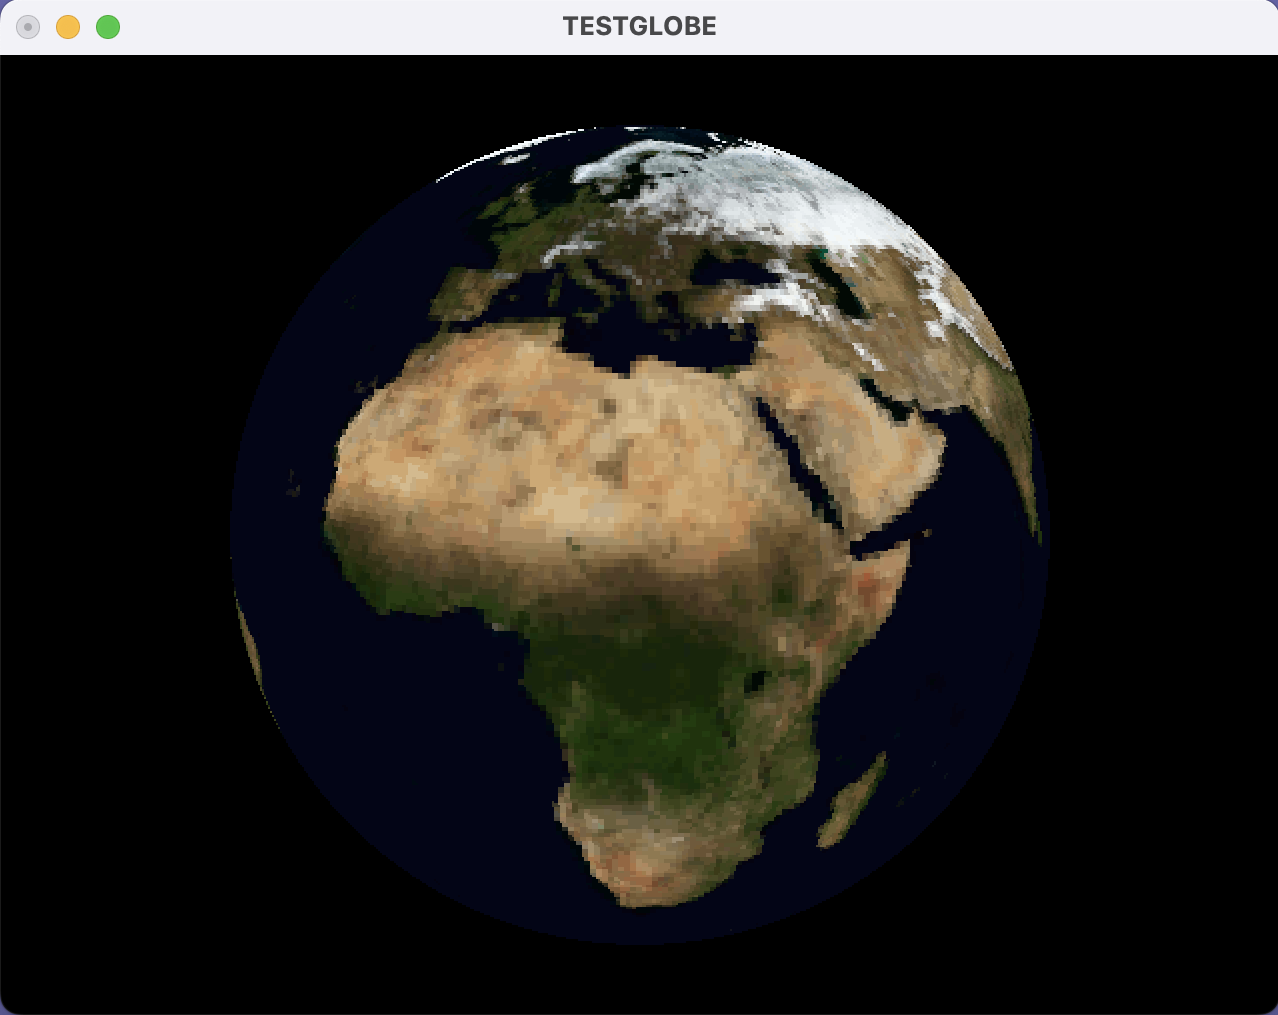
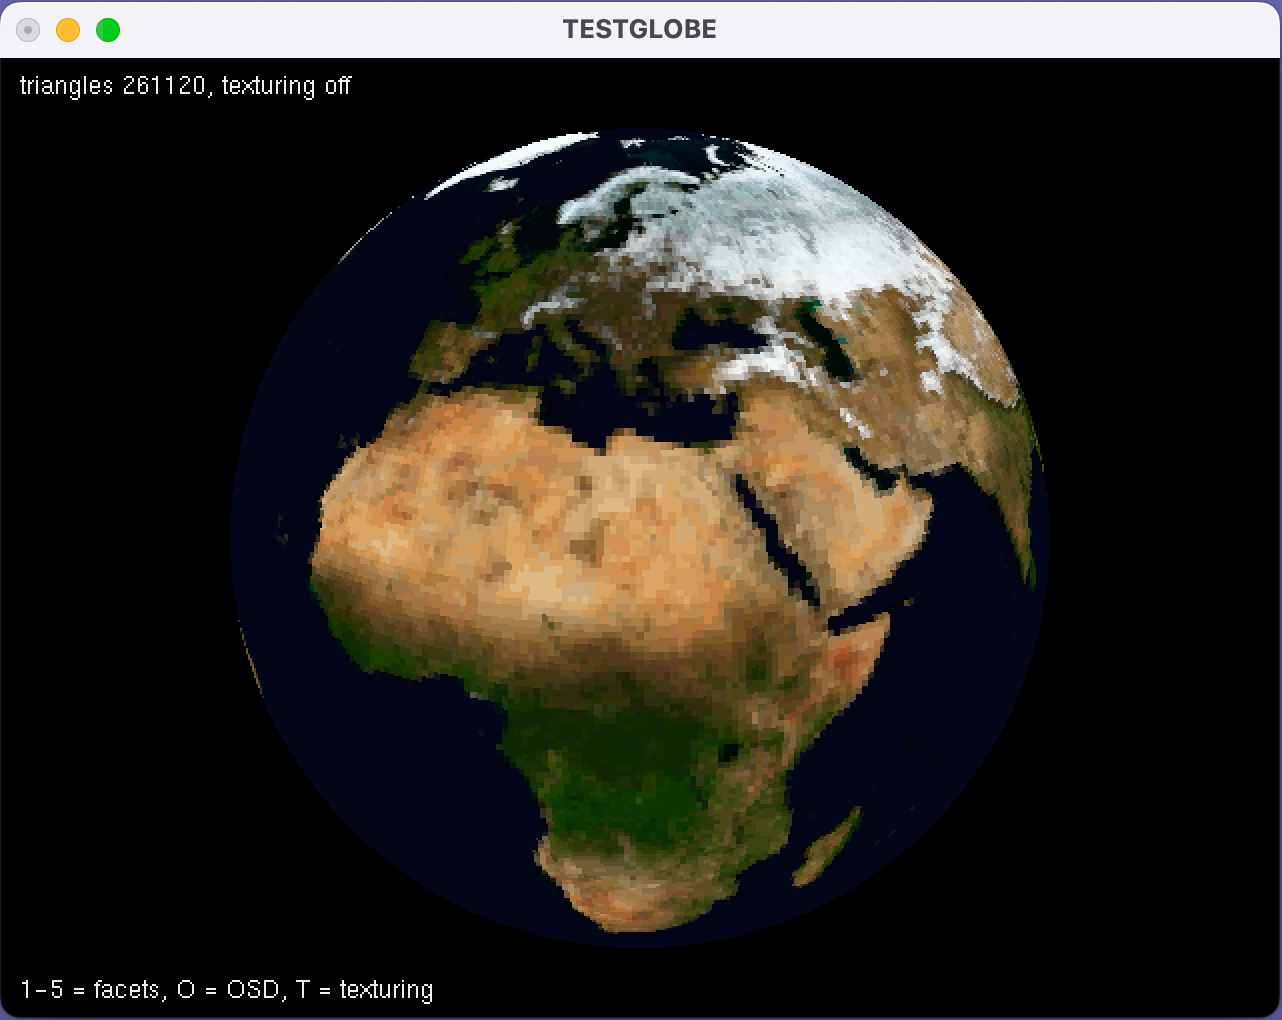
OSD with help

diff --git a/drv_ogl.c b/drv_ogl.c
@@ -30,6 +30,8 @@
 #include <GL/glut.h>
 #endif
 
+void *ogl_font;
+
 static int ogl_old_x;
 static int ogl_old_y;
 
@@ -74,6 +76,11 @@ void ogl_keyboard(unsigned char key, int x, int y)
                 glDeleteLists(dlist, 1);
                 dlist = 0;
             }
+            glutPostRedisplay();
+            break;
+        case 'O':
+        case 'o':
+            drv_osd_enabled = !drv_osd_enabled;
             glutPostRedisplay();
             break;
         default:
@@ -179,11 +186,23 @@ void ogl_checkerrors (void)
     fprintf(stderr, "OpenGL error: %s!\n", error_msg);
 }
 
+// draw a string with bitmap text
+void ogl_draw_string(char * str, int x, int y)
+{
+    glRasterPos2i(x, y);
+    int i;
+    for (i=0; *(str+i) != 0; str++)
+    {
+        glutBitmapCharacter(ogl_font, *(str+i));
+    }
+}
+
 // initialize graphics subsystem
 void drv_init(int *argc, char **argv)
 {
     glutInit(argc, argv);
     glutInitDisplayMode(GLUT_RGB | GLUT_DOUBLE);
+    ogl_font = GLUT_BITMAP_HELVETICA_12;
 }
 
 // render current scene
@@ -213,6 +232,19 @@ void drv_render(void)
         glCallList(dlist);
     }
 
+    if (drv_osd_enabled)
+    {
+        glMatrixMode(GL_MODELVIEW);
+        glPushMatrix();
+        glMatrixMode(GL_PROJECTION);
+        glPushMatrix();
+        drv_draw_osd();
+        glMatrixMode(GL_PROJECTION);
+        glPopMatrix();
+        glMatrixMode(GL_MODELVIEW);
+        glPopMatrix();
+    }
+    
     glutSwapBuffers();
     ogl_checkerrors();
 }
@@ -323,6 +355,22 @@ void drv_draw_tri_flat_uv(Vertex *xyz1, Vertex *xyz2, Vertex *xyz3, Coord *uv1, 
     glVertex3fv((GLfloat *)xyz2);
     glTexCoord2fv((GLfloat *)uv3);
     glVertex3fv((GLfloat *)xyz3);
+}
+
+void drv_draw_osd(void)
+{
+    char status_str[256];
+    
+    glMatrixMode(GL_PROJECTION);
+    glLoadIdentity();
+    gluOrtho2D(0, drv_win_width, 0, drv_win_height);
+    
+    glMatrixMode(GL_MODELVIEW);
+    glLoadIdentity();
+    
+    ogl_draw_string(drv_help, 10, 10);
+    snprintf(status_str, 255, "triangles %i, texturing %s", globe_tris_num, (drv_texture_enabled ? "on" : "off"));
+    ogl_draw_string(status_str, 10, drv_win_height - 18);
 }
 
 // cleanly close window

diff --git a/drv.c b/drv.c
@@ -34,6 +34,7 @@ int drv_colormapped;                    // bool is colormap window
 int drv_texture_avail;                  // is texturing available in the driver
 int drv_texture_loaded;                 // has texture been loaded
 int drv_texture_enabled;                // is texturing enabled
+int drv_osd_enabled;                    // is OSD enabled
 unsigned int drv_bits_per_pixel;        // bits depth
 unsigned int drv_colormap_bits;         // bits per color
 unsigned long int drv_colors;           // number of colors
@@ -44,6 +45,7 @@ float drv_rot_x;                            // rotation of globe on x axis
 float drv_rot_y;                            // rotation of globe on y axis
 int drv_lmouse_pressed;                 // mouse pressed
 int drv_rmouse_pressed;                 //
+char drv_help[256];                     // OSD help string to print
 
 
 // call first
@@ -59,6 +61,7 @@ void drv_ext_init(void)
     drv_colormapped = DRV_COLORMAPPED;
     drv_texture_avail = DRV_TEXTURE;
     drv_texture_enabled = DRV_TEXTURE_DEFAULT;
+    drv_osd_enabled = DRV_OSD_DEFAULT;
     drv_bits_per_pixel = DRV_DEPTH;
     drv_colormap_bits = DRV_COLORMAPDEPTH;
     drv_colors = (drv_bits_per_pixel == 32 ? 0xFFFFFFFF : 1<<drv_bits_per_pixel);
@@ -79,6 +82,7 @@ void drv_ext_init(void)
             break;
     }
     strcpy(drv_name, DRV_NAME);
+    strcpy(drv_help, DRV_HELP);
     drv_rot_x = 0;
     drv_rot_y = 0;
     drv_lmouse_pressed = FALSE;

diff --git a/drv_ext.h b/drv_ext.h
@@ -29,16 +29,19 @@ extern int drv_colormapped;
 extern int drv_texture_avail;
 extern int drv_texture_loaded;
 extern int drv_texture_enabled;
+extern int drv_osd_enabled;
 extern unsigned int drv_bits_per_pixel;
 extern unsigned int drv_bytes_per_pixel;
 extern unsigned int drv_colormap_bits;
 extern unsigned long int drv_colors;
 extern unsigned long int drv_colormap_colors;
 extern char drv_name[];
+extern char drv_help[];
 extern float drv_rot_x;
 extern float drv_rot_y;
 extern int drv_lmouse_pressed;
 extern int drv_rmouse_pressed;
+
 
 extern void drv_ext_init(void);
 extern void drv_init(int *argc, char **argv);
@@ -48,5 +51,6 @@ extern void drv_draw_tri_flat_uv(Vertex *xyz1, Vertex *xyz2, Vertex *xyz3, Coord
 extern void drv_loop(void);
 extern void drv_texture_enable(void);
 extern void drv_texture_disable(void);
+extern void drv_draw_osd(void);
 
 #endif /* drv_ext_h */

diff --git a/drv_ogl.h b/drv_ogl.h
@@ -24,6 +24,7 @@
 #endif
 
 #define DRV_NAME "OpenGL"
+#define DRV_HELP "1-5 = facets, O = OSD, T = texturing"
 #define GL_SILENCE_DEPRECATION
 
 #define DRV_WIN_X 100
@@ -33,6 +34,7 @@
 #define DRV_COLORMAPPED FALSE
 #define DRV_TEXTURE TRUE
 #define DRV_TEXTURE_DEFAULT FALSE
+#define DRV_OSD_DEFAULT TRUE
 #define DRV_DEPTH 24
 #define DRV_COLORMAPDEPTH 24
 #define Color Color_RGB

diff --git a/drv_xgl.h b/drv_xgl.h
@@ -24,6 +24,8 @@
 #endif
 
 #define DRV_NAME "XGL"
+#define DRV_HELP "1-5 = facets, O = OSD, T = texturing"
+
 #define DRV_WIN_X 100
 #define DRV_WIN_Y 100
 #define DRV_WIN_WIDTH 640
@@ -31,6 +33,7 @@
 #define DRV_COLORMAPPED FALSE
 #define DRV_TEXTURE FALSE
 #define DRV_TEXTURE_DEFAULT FALSE
+#define DRV_OSD_DEFAULT TRUE
 #define DRV_DEPTH 24
 #define DRV_COLORMAPDEPTH 24
 

diff --git a/drv_igl.h b/drv_igl.h
@@ -24,6 +24,7 @@
 #endif
 
 #define DRV_NAME "IRIS GL"
+#define DRV_HELP "1-5 = facets, O = OSD, T = texturing"
 
 #define DRV_WIN_X 100
 #define DRV_WIN_Y 100
@@ -32,6 +33,7 @@
 #define DRV_COLORMAPPED FALSE
 #define DRV_TEXTURE TRUE
 #define DRV_TEXTURE_DEFAULT FALSE
+#define DRV_OSD_DEFAULT TRUE
 #define DRV_DEPTH 24
 #define DRV_COLORMAPDEPTH 24
 #define Color Color_RGB

diff --git a/drv_pgc.h b/drv_pgc.h
@@ -24,6 +24,8 @@
 #endif
 
 #define DRV_NAME "IBM PGC"
+#define DRV_HELP "1-5 = facets, O = OSD, T = texturing"
+
 #define DRV_WIN_X 0
 #define DRV_WIN_Y 0
 #define DRV_WIN_WIDTH 640
@@ -31,6 +33,7 @@
 #define DRV_COLORMAPPED TRUE
 #define DRV_TEXTURE FALSE
 #define DRV_TEXTURE_DEFAULT FALSE
+#define DRV_OSD_DEFAULT TRUE
 #define DRV_DEPTH 8
 #define DRV_COLORMAPDEPTH 12
 

diff --git a/drv_phg.h b/drv_phg.h
@@ -24,6 +24,7 @@
 #endif
 
 #define DRV_NAME "PHIGS"
+#define DRV_HELP "1-5 = facets, O = OSD, T = texturing"
 
 #define DRV_WIN_X 100
 #define DRV_WIN_Y 100
@@ -32,6 +33,7 @@
 #define DRV_COLORMAPPED FALSE
 #define DRV_TEXTURE FALSE
 #define DRV_TEXTURE_DEFAULT FALSE
+#define DRV_OSD_DEFAULT TRUE
 #define DRV_DEPTH 24
 #define DRV_COLORMAPDEPTH 24
 #define Color Color_RGB

diff --git a/glob_ext.h b/glob_ext.h
@@ -29,5 +29,6 @@ extern unsigned char earth_data_128[];
 extern unsigned char earth_data_256[];
 extern unsigned char earth_data_512[];
 extern unsigned char earth_cmap[][3];
+extern int globe_tris_num;
 
 #endif /* glob_ext_h */
